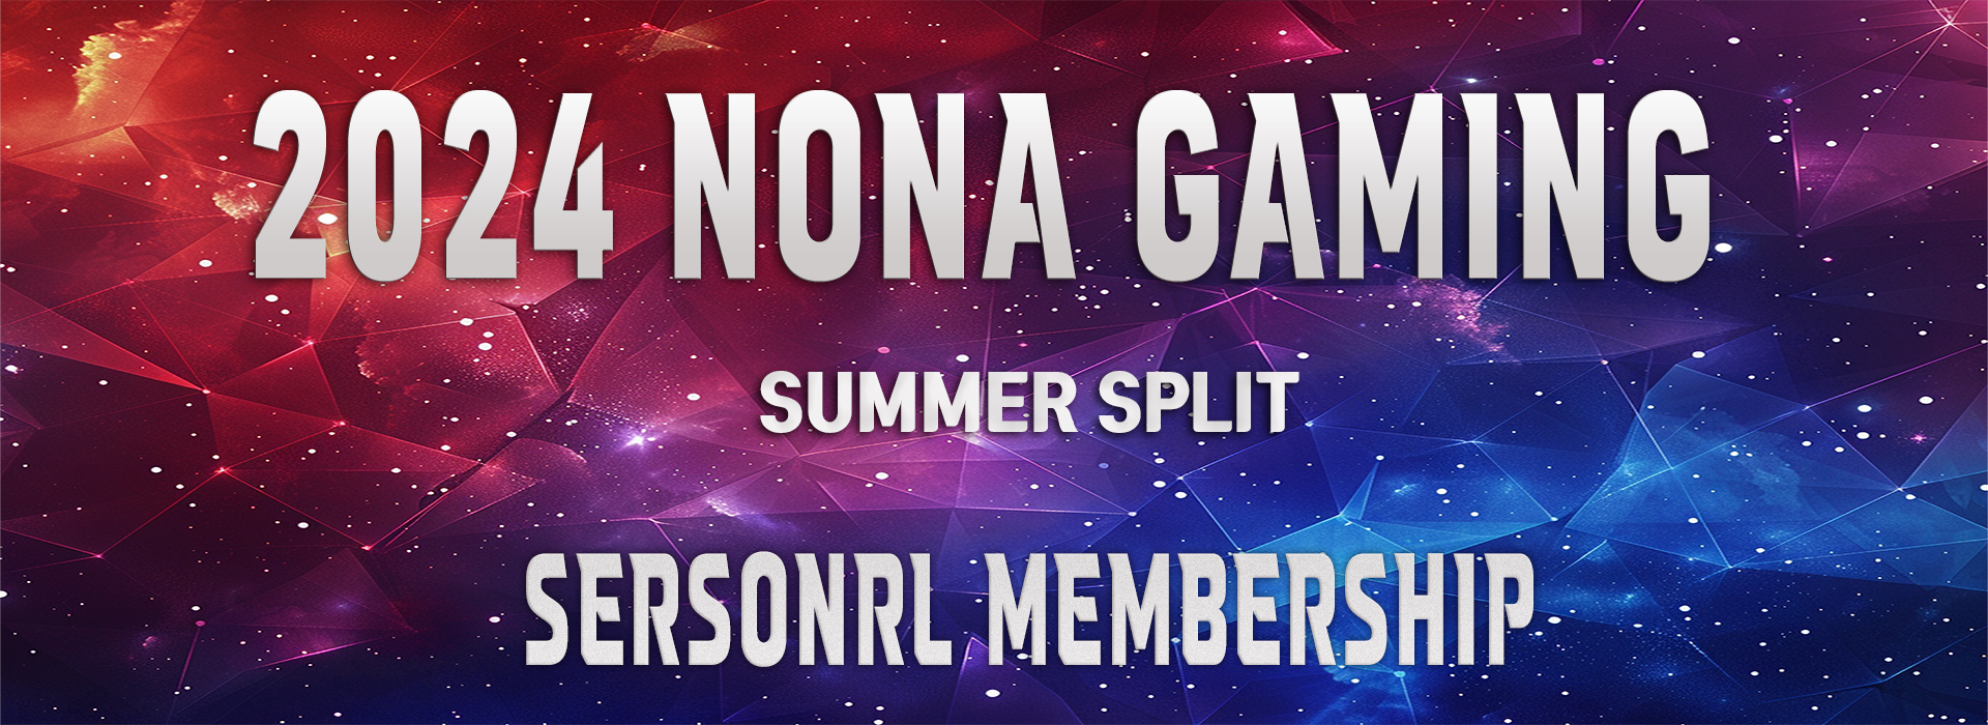
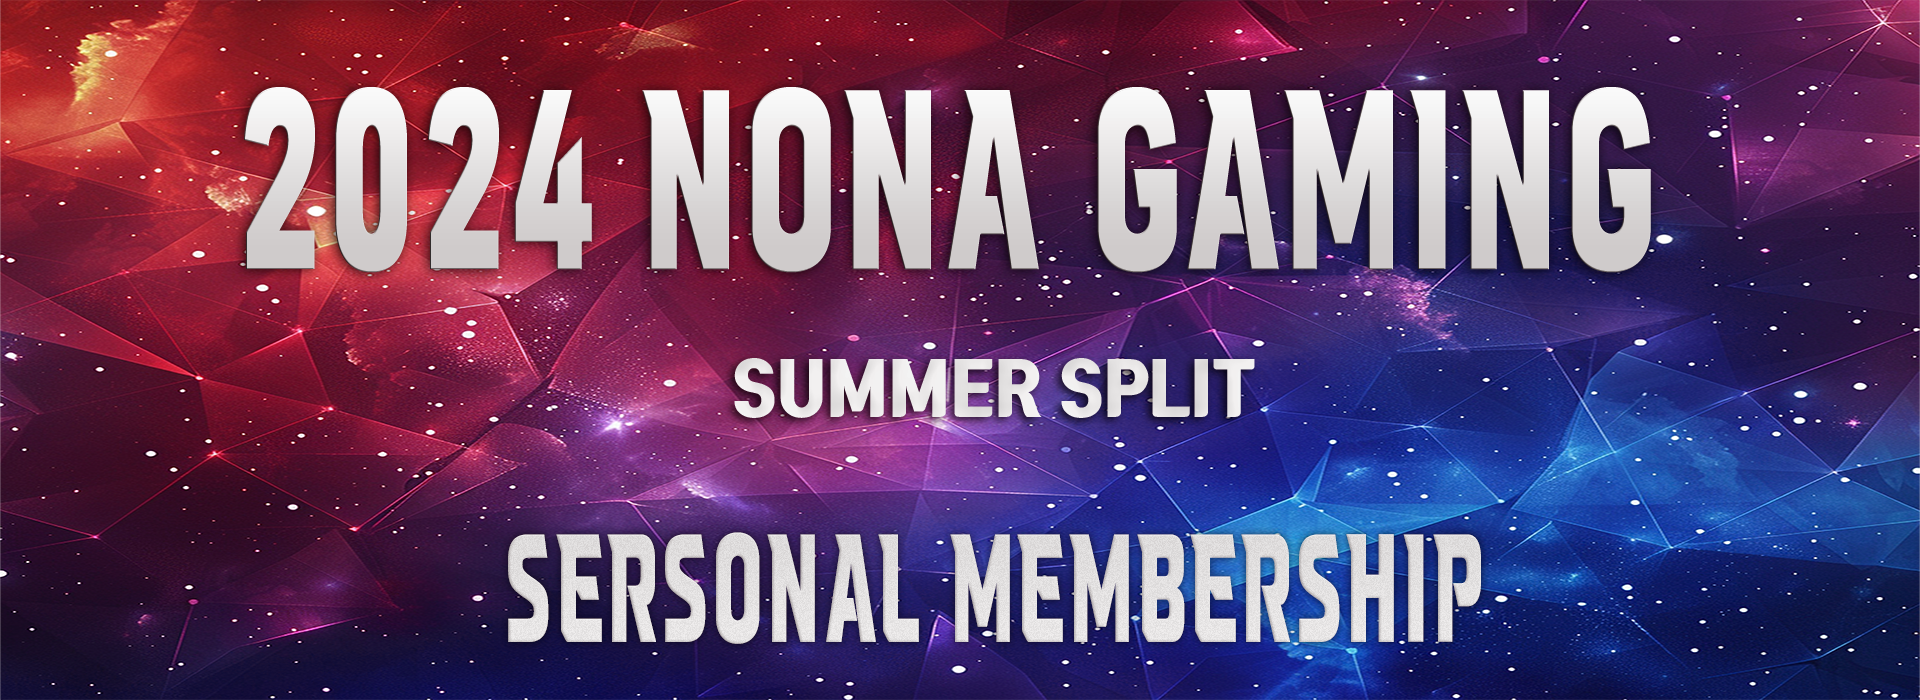
Add files via upload

diff --git a/css/sub3_style.css b/css/sub3_style.css
@@ -130,7 +130,7 @@ h1.logo img {
 }
 
 #banner1 {
-    height: 745px;
+    height: 900px;
     position: relative;
     overflow: hidden;
     padding-bottom: 100px;

diff --git a/css/sub1_style.css b/css/sub1_style.css
@@ -178,7 +178,7 @@ h1.logo img {
 }
 
 #banner {
-    height: 745px;
+    height: 900px;
     position: relative;
     overflow: hidden;
     padding-top: 50px;
